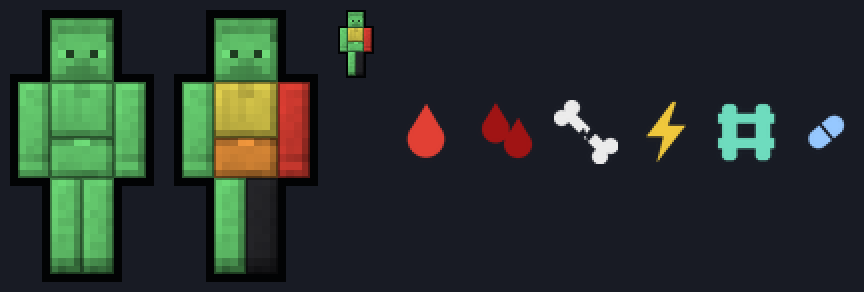
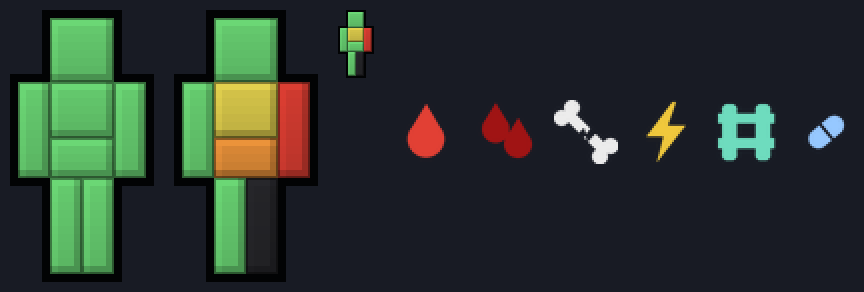
Sylwetka zdrowia bez skina (gładki kształt gracza)
Claude-Session: https://claude.ai/code/session_01Ak4evVwZATccqkbRzMupDd

diff --git a/zrodla/axoncore/zdrowie.py b/zrodla/axoncore/zdrowie.py
@@ -40,7 +40,7 @@ IKONA_H, IKONA_ASCENT = 8, 7
 KOLORY = [(0.75, (110, 220, 120)), (0.5, (232, 214, 80)), (0.25, (240, 150, 60)), (0.0001, (226, 64, 52)),
           (0.0, (40, 40, 44))]
 
-# Postać jak gracz z Minecrafta widziany z przodu, w pikselach skina (x0, y0, x1, y1), siatka 16 × 32.
+# Kształt gracza z Minecrafta widzianego z przodu (bez skina), w pikselach (x0, y0, x1, y1), siatka 16 × 32.
 # Prawa ręka i noga gracza są po lewej stronie obrazka (postać stoi przodem). Klatka i brzuch to górna
 # i dolna część tułowia (brzuch od linii paska w dół).
 PROSTOKATY = {
@@ -55,47 +55,18 @@ PROSTOKATY = {
 
 
 def _odcienie(czesc):
-    """Jasność każdego piksela skina części (0–255, biały do barwienia): ciemniejszy brzeg, światło z lewej
-    i z góry, lekki szum jak w skinach oraz twarz, pasek i szwy."""
-    import random
-    import zlib
-    rnd = random.Random(zlib.crc32(czesc.encode()))
+    """Jasność każdego piksela części (0–255, biały do barwienia): gładka bryła bez skina, tylko lekki
+    gradient z góry na dół, jaśniejszy lewy i górny brzeg i cień na prawym i dolnym."""
     x0, y0, x1, y1 = PROSTOKATY[czesc]
     px = {}
     for y in range(y0, y1):
         for x in range(x0, x1):
-            v = 232 - 30 * (y - y0) / max(1, y1 - y0 - 1) + rnd.randint(-9, 9)
+            v = 236 - 26 * (y - y0) / max(1, y1 - y0 - 1)
             if x == x0 or y == y0:
-                v += 14                                    # światło z lewej i z góry
+                v += 14
             if x == x1 - 1 or y == y1 - 1:
-                v -= 46                                    # cień na prawym i dolnym brzegu
+                v -= 40
             px[x, y] = v
-    if czesc == 'glowa':
-        for x in range(4, 12):                             # włosy (dwa górne rzędy) ciemniejsze
-            px[x, 0] -= 50
-            px[x, 1] -= 50
-        px[4, 2] -= 50; px[11, 2] -= 50
-        px[5, 4], px[10, 4] = 255, 255                     # białka oczu
-        px[6, 4], px[9, 4] = 70, 70                        # źrenice
-        px[7, 5] -= 30; px[8, 5] -= 30                     # nos
-        for x in (6, 7, 8, 9):
-            px[x, 6] -= 45                                 # usta
-    elif czesc == 'klatka':
-        px[7, 8] -= 35; px[8, 8] -= 35                     # dekolt
-        px[7, 9] -= 25; px[8, 9] -= 25
-    elif czesc == 'brzuch':
-        for x in range(4, 12):
-            px[x, 15] -= 55                                # pasek
-        px[7, 15] += 60; px[8, 15] += 60                   # klamra
-    elif czesc.startswith('reka'):
-        for x in range(x0, x1):
-            px[x, 18] += 12                                # dłoń jaśniejsza
-            px[x, 19] += 12
-            px[x, 17] -= 20                                # rękaw
-    elif czesc.startswith('noga'):
-        for x in range(x0, x1):
-            px[x, 30] -= 40                                # buty
-            px[x, 31] -= 40
     return {k: max(40, min(255, int(v))) for k, v in px.items()}
 
 

diff --git a/README.md b/README.md
@@ -573,7 +573,7 @@ ze wspólnym układem w ręce, na ziemi i w ekwipunku. Podgląd: `podglady/zdrow
 
 Sylwetka gracza do panelu HUD AxonScoreboard i okna „Zdrowie” (`zrodla/axoncore/zdrowie.py`): obrys U+EE00
 i 7 części U+EE01–U+EE07 (głowa, klatka, brzuch, lewa ręka, prawa ręka, lewa noga, prawa noga), w kształcie gracza z Minecrafta
-(16 × 32 piksele skina z twarzą, paskiem i butami, plus 1 px obrysu, znak 18 × 34 px GUI, tekstura 72 × 136),
+(16 × 32 px, gładka bez skina, plus 1 px obrysu, znak 18 × 34 px GUI, tekstura 72 × 136),
 biała do barwienia kolorem tekstu; ikonki stanów 8 × 8 U+EE10–U+EE15 (krwawienie,
 mocne krwawienie, złamanie, ból, szyna, środki przeciwbólowe). Są w `minecraft:default` i w czcionce panelu
 `axon:hud`; w tej drugiej na końcu listy znaków, więc numery znaków, które zna starszy AxonScoreboard, się nie
